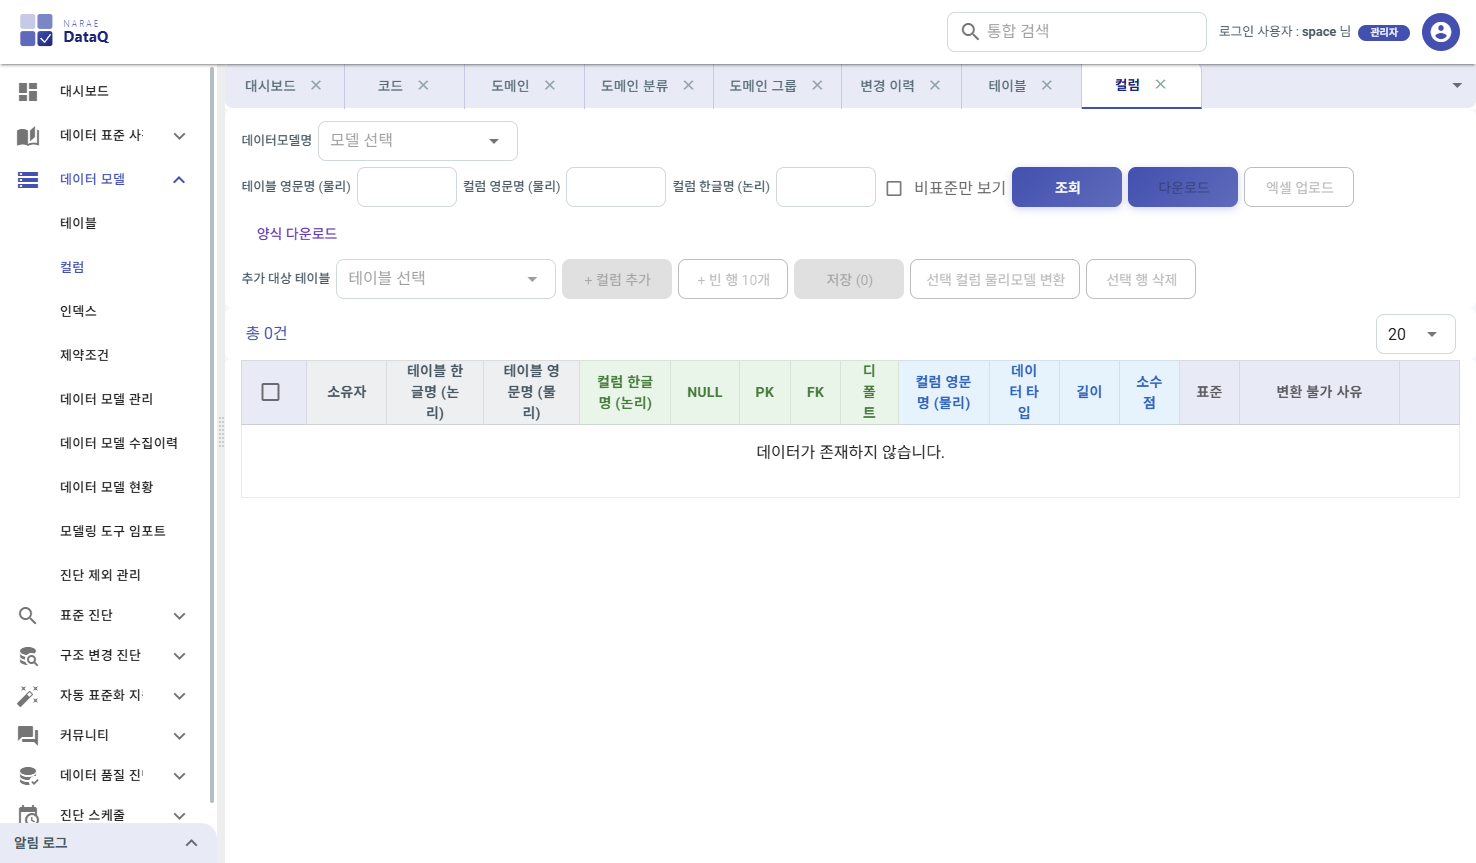
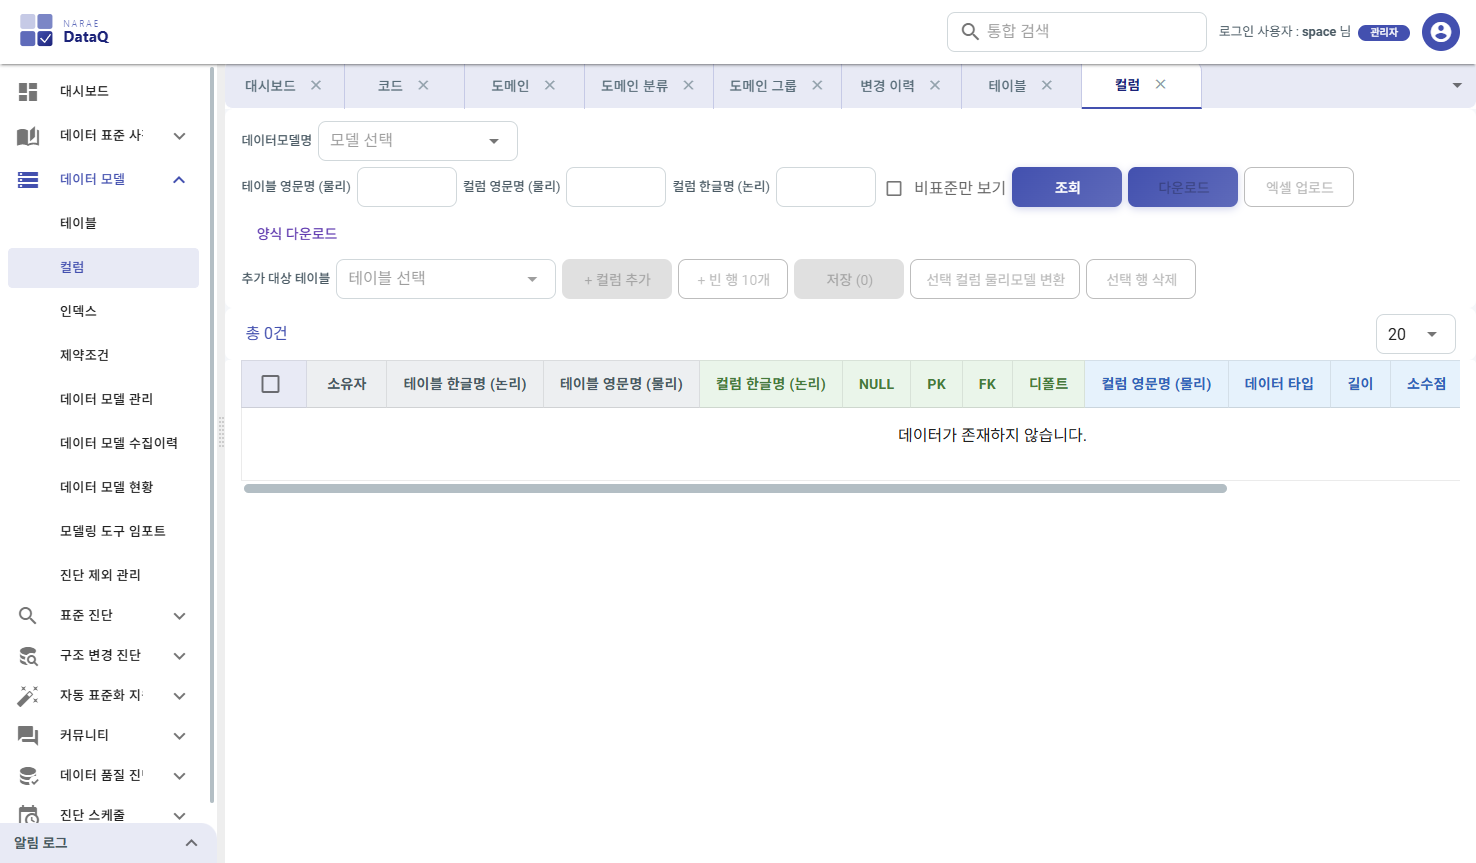
UI 시각 검토 fix — 13 컴포넌트 + Vuetify locale 한국어
공통 (Vuetify locale)
- vuetify.js — 한국어 locale 등록 (noDataText, dataTable, dataFooter)
- "No data available" → "데이터가 존재하지 않습니다." 전 화면 일괄

NdNav
- 사이드바 width 240 — "자동 표준화 지원" 등 메뉴 텍스트 잘림 해소
- "QNA" → "Q&A"

DSDatamodelStatusColumn (가장 심각이었음)
- 헤더 한 글자씩 줄바꿈 ("디 폴 트", "데 이 터 타 입") 해소
- th { white-space: nowrap !important } 추가

DSCode / DSDomain
- 5~6 버튼 한 줄 가로 배치 (flex-nowrap) — "삭제" 만 떨어지던 문제 해소

DSQualValueProfile
- [선택 컬럼 진단] 우측 padding 32px — 잘림 해소
- "전체선택"/"선택해제" → outlined 버튼 (클릭 가능 명확)
- 헤더 "도메인분류" → "도메인 분류"
- 모델 placeholder "모델" → "모델 선택"

DSErwinImport
- [XMI 2.1 추출] 우측 padding 32px

DSDiagTargetMgmt
- OFF/ON 사각 버튼 모호 → outlined red(제외) / green(대상) 명확 구분

DSApproval (MMApproval)
- 행마다 [승인]/[반려] 가로 1줄 배치 + 행 높이 ~50px (이전 60+)
- 일괄 버튼 영역 우측 padding 32px (일괄 반려 잘림 미세 잔존 — 그리드 크기 한계)

DSQualRuleManage
- "비용" → "예상 비용" (cost 의도 명확화)

DSQualStats
- "DONE 진단 최근 30회" → "완료된 진단 최근 30회"
- "DONE 진단 이력 없음" → "완료된 진단 이력 없음"

DSQualColRule
- "effective rule" → "유효 규칙"
- "적합률 ≥/≤" → "적합률 최소/최대"

크롤러 31장 재캡처 → screenshots/ 갱신

Changed region(s): [[0.1558, 0.4218, 0.9973, 0.5724]]

diff --git a/q-center/vue/front/src/components/DSDiagTargetMgmt.vue b/q-center/vue/front/src/components/DSDiagTargetMgmt.vue
@@ -35,16 +35,16 @@
               color="ndColor" prepend-inner-icon="search" :style="{ maxWidth: '240px' }"></v-text-field>
             <v-spacer></v-spacer>
             <span class="text-caption grey--text mr-1">표준</span>
-            <v-btn small class="gradient" @click="bulkObjToggle('STND','N')">OFF</v-btn>
-            <v-btn small outlined @click="bulkObjToggle('STND','Y')">ON</v-btn>
+            <v-btn small outlined color="red" @click="bulkObjToggle('STND','N')" title="선택 행 표준진단 OFF">제외</v-btn>
+            <v-btn small outlined color="green" @click="bulkObjToggle('STND','Y')" title="선택 행 표준진단 ON">대상</v-btn>
             <v-divider vertical class="mx-1" />
             <span class="text-caption grey--text mr-1">구조</span>
-            <v-btn small class="gradient" @click="bulkObjToggle('STRUCT','N')">OFF</v-btn>
-            <v-btn small outlined @click="bulkObjToggle('STRUCT','Y')">ON</v-btn>
+            <v-btn small outlined color="red" @click="bulkObjToggle('STRUCT','N')" title="선택 행 구조진단 OFF">제외</v-btn>
+            <v-btn small outlined color="green" @click="bulkObjToggle('STRUCT','Y')" title="선택 행 구조진단 ON">대상</v-btn>
             <v-divider vertical class="mx-1" />
             <span class="text-caption grey--text mr-1">품질</span>
-            <v-btn small class="gradient" @click="bulkObjToggle('QUAL','N')">OFF</v-btn>
-            <v-btn small outlined @click="bulkObjToggle('QUAL','Y')">ON</v-btn>
+            <v-btn small outlined color="red" @click="bulkObjToggle('QUAL','N')" title="선택 행 품질진단 OFF">제외</v-btn>
+            <v-btn small outlined color="green" @click="bulkObjToggle('QUAL','Y')" title="선택 행 품질진단 ON">대상</v-btn>
           </v-sheet>
           <v-data-table class="px-3 pb-3" :headers="objHeaders" :items="filteredObjs" item-key="objNm"
             v-model="selectedObjs" show-select dense hide-default-footer :items-per-page="-1">
@@ -82,16 +82,16 @@
               color="ndColor" prepend-inner-icon="search" :style="{ maxWidth: '240px' }"></v-text-field>
             <v-spacer></v-spacer>
             <span class="text-caption grey--text mr-1">표준</span>
-            <v-btn small class="gradient" @click="bulkAttrToggle('STND','N')" :disabled="!selObj">OFF</v-btn>
-            <v-btn small outlined @click="bulkAttrToggle('STND','Y')" :disabled="!selObj">ON</v-btn>
+            <v-btn small outlined color="red" @click="bulkAttrToggle('STND','N')" :disabled="!selObj">제외</v-btn>
+            <v-btn small outlined color="green" @click="bulkAttrToggle('STND','Y')" :disabled="!selObj">대상</v-btn>
             <v-divider vertical class="mx-1" />
             <span class="text-caption grey--text mr-1">구조</span>
-            <v-btn small class="gradient" @click="bulkAttrToggle('STRUCT','N')" :disabled="!selObj">OFF</v-btn>
-            <v-btn small outlined @click="bulkAttrToggle('STRUCT','Y')" :disabled="!selObj">ON</v-btn>
+            <v-btn small outlined color="red" @click="bulkAttrToggle('STRUCT','N')" :disabled="!selObj">제외</v-btn>
+            <v-btn small outlined color="green" @click="bulkAttrToggle('STRUCT','Y')" :disabled="!selObj">대상</v-btn>
             <v-divider vertical class="mx-1" />
             <span class="text-caption grey--text mr-1">품질</span>
-            <v-btn small class="gradient" @click="bulkAttrToggle('QUAL','N')" :disabled="!selObj">OFF</v-btn>
-            <v-btn small outlined @click="bulkAttrToggle('QUAL','Y')" :disabled="!selObj">ON</v-btn>
+            <v-btn small outlined color="red" @click="bulkAttrToggle('QUAL','N')" :disabled="!selObj">제외</v-btn>
+            <v-btn small outlined color="green" @click="bulkAttrToggle('QUAL','Y')" :disabled="!selObj">대상</v-btn>
           </v-sheet>
           <v-data-table class="px-3 pb-3" :headers="attrHeaders" :items="filteredAttrs" item-key="attrNm"
             v-model="selectedAttrs" show-select dense hide-default-footer :items-per-page="-1">

diff --git a/q-center/vue/front/src/components/MMApproval.vue b/q-center/vue/front/src/components/MMApproval.vue
@@ -12,8 +12,9 @@
       </v-row>
     </v-sheet>
 
-    <!-- 검색과 버튼 영역 -->
+    <!-- 검색과 버튼 영역 — 우측 padding 확보로 [일괄 반려] 잘림 방지 -->
     <v-sheet class="splitTopWrapper pt-4 pb-4" id="approvalWrap"
+      style="padding-right:24px !important;"
       v-bind:style="[isMobile ? { 'flex-direction': 'column' } : { 'flex-direction': 'row' }]">
       <!-- 검색 -->
       <v-sheet v-bind:style="[isMobile ? { 'padding': '12px 0px' } : { 'padding': '0px 12px' }]" class="searchWrapper">
@@ -23,8 +24,9 @@
         <v-btn class="gradient ml-3" title="검색" v-on:click="getApprovalData"
           :style="{ width: '40px', padding: '0 5px', minWidth: '45px' }"><v-icon>search</v-icon></v-btn>
       </v-sheet>
-      <!-- 일괄 버튼 -->
-      <v-sheet class="pr-4 pl-4" v-if="isAdmin"
+      <!-- 일괄 버튼 (화면 우측 padding 확보) -->
+      <v-sheet class="pl-4" v-if="isAdmin"
+        style="padding-right:32px !important; flex-shrink:0;"
         v-bind:style="[isMobile ? { width: '100%', display: 'flex', justifyContent: 'space-between' } : {}]">
         <v-btn class="gradient mr-2" @click="batchApprove" title="일괄 승인"
           :disabled="selectedItem.length === 0">
@@ -68,14 +70,16 @@
           </div>
         </template>
         <template v-else>
-          <v-btn x-small color="success" class="mr-1" :disabled="item.aprvStatRaw === 2"
-            @click.stop="approveItem(item)" title="승인">
-            <v-icon x-small left>mdi-check</v-icon>승인
-          </v-btn>
-          <v-btn x-small color="red" dark :disabled="item.aprvStatRaw === 3"
-            @click.stop="startRowReject(item)" title="반려">
-            <v-icon x-small left>mdi-close</v-icon>반려
-          </v-btn>
+          <div class="d-flex align-center justify-center" style="gap:4px; white-space:nowrap;">
+            <v-btn x-small color="success" :disabled="item.aprvStatRaw === 2"
+              @click.stop="approveItem(item)" title="승인">
+              <v-icon x-small left>mdi-check</v-icon>승인
+            </v-btn>
+            <v-btn x-small color="red" dark :disabled="item.aprvStatRaw === 3"
+              @click.stop="startRowReject(item)" title="반려">
+              <v-icon x-small left>mdi-close</v-icon>반려
+            </v-btn>
+          </div>
         </template>
       </template>
       <template v-slot:no-data>
@@ -259,7 +263,7 @@ export default {
       { text: '요청일', align: 'center', sortable: false, value: 'reqCretDt' },
       { text: '처리일', align: 'center', sortable: false, value: 'aprvStatUpdtDt' },
       { text: '사유', align: 'center', sortable: false, value: 'aprvStatUpdtRsn' },
-      { text: '처리', align: 'center', sortable: false, value: 'rowActions', width: '170px' },
+      { text: '처리', align: 'center', sortable: false, value: 'rowActions', width: '180px' },
     ],
     rowRejectId: null,        // 인라인 반려 사유 입력 중인 행 key
     rowRejectReason: '',      // 인라인 반려 사유 텍스트

diff --git a/q-center/vue/front/src/components/DSQualValueProfile.vue b/q-center/vue/front/src/components/DSQualValueProfile.vue
@@ -2,16 +2,17 @@
   <v-main>
     <v-sheet class="pa-3" style="display:flex; flex-direction:column; height:100%;">
 
-      <!-- 상단: 모델 + 샘플링 + 시작 -->
-      <v-sheet class="d-flex align-center pa-2" style="border-bottom:1px solid #E8EAF6; gap:8px;">
+      <!-- 상단: 모델 + 샘플링 + 시작 (오른쪽 끝 padding 추가로 버튼 잘림 방지) -->
+      <v-sheet class="d-flex align-center pa-2" style="border-bottom:1px solid #E8EAF6; gap:8px; padding-right:32px !important;">
         <v-autocomplete v-model="dmId" :items="dataModels" item-text="dataModelNm" item-value="dataModelId"
-          label="모델" dense hide-details style="max-width:280px" @change="loadCols" id="cmb-model"></v-autocomplete>
+          label="모델 선택" dense hide-details style="max-width:280px" @change="loadCols" id="cmb-model"></v-autocomplete>
         <v-select v-model="sampleRate" :items="sampleOpts" item-text="text" item-value="value"
           label="샘플링" dense hide-details style="max-width:130px" id="cmb-sample"></v-select>
         <v-spacer></v-spacer>
-        <span style="font-size:.8rem; color:#546E7A;">선택 {{ selected.length }}건 / 표시 {{ filtered.length }}건</span>
+        <span style="font-size:.8rem; color:#546E7A; white-space:nowrap;">선택 {{ selected.length }}건 / 표시 {{ filtered.length }}건</span>
         <v-btn small class="ml-2 gradient" @click="runSelected"
-          :disabled="!dmId || selected.length===0 || running" id="btn-run-selected">
+          :disabled="!dmId || selected.length===0 || running" id="btn-run-selected"
+          style="flex-shrink:0; min-width:140px;">
           <v-icon small left>mdi-play</v-icon>선택 컬럼 진단
         </v-btn>
       </v-sheet>
@@ -24,8 +25,8 @@
           dense hide-details multiple chips small-chips clearable
           style="min-width:280px; max-width:480px;" id="cmb-clsf"></v-autocomplete>
         <v-spacer></v-spacer>
-        <v-btn x-small text @click="selectAll" id="btn-select-all">전체선택</v-btn>
-        <v-btn x-small text @click="selectNone" id="btn-select-none">선택해제</v-btn>
+        <v-btn small outlined color="indigo" @click="selectAll" id="btn-select-all">전체 선택</v-btn>
+        <v-btn small outlined color="grey darken-1" @click="selectNone" id="btn-select-none">선택 해제</v-btn>
       </v-sheet>
 
       <!-- 진행률 표시 -->
@@ -171,7 +172,7 @@ export default {
         { text: '테이블',     value: 'objNm', width: 140 },
         { text: '컬럼',       value: 'attrNm', width: 140 },
         { text: '한글명',     value: 'attrNmKr', width: 140 },
-        { text: '도메인분류', value: 'domainClsfNm', width: 120 },
+        { text: '도메인 분류', value: 'domainClsfNm', width: 120 },
         { text: '적용 규칙',  value: 'effectiveRuleNm' },
         { text: '소스',       value: 'effectiveSource', width: 90 },
         { text: 'NULL%',      value: 'profNullPct', width: 80 },

diff --git a/q-center/vue/front/src/components/DSQualColRule.vue b/q-center/vue/front/src/components/DSQualColRule.vue
@@ -4,7 +4,7 @@
       <!-- 헤더 -->
       <v-sheet class="d-flex align-center pa-2" style="border-bottom:1px solid #E8EAF6; gap:8px;">
         <span style="font-size:1.05rem; font-weight:600; color:#1A237E;">검증 대상</span>
-        <span style="font-size:.8rem; color:#9E9E9E;">— 컬럼 ↔ 룰 매핑 + effective rule + 직전 진단 적합률</span>
+        <span style="font-size:.8rem; color:#9E9E9E;">— 컬럼 ↔ 규칙 매핑 + 유효 규칙 + 직전 진단 적합률</span>
       </v-sheet>
 
       <!-- 검색 필터 -->
@@ -17,10 +17,10 @@
           @change="loadCols"></v-text-field>
         <v-text-field v-model="filterAttr" label="컬럼 검색" dense hide-details clearable style="max-width:160px"
           @change="loadCols"></v-text-field>
-        <v-text-field v-model.number="rateMin" label="적합률 ≥" type="number" dense hide-details clearable
-          style="max-width:110px" @change="loadCols"></v-text-field>
-        <v-text-field v-model.number="rateMax" label="적합률 ≤" type="number" dense hide-details clearable
-          style="max-width:110px" @change="loadCols"></v-text-field>
+        <v-text-field v-model.number="rateMin" label="적합률 최소" type="number" dense hide-details clearable
+          style="max-width:120px" @change="loadCols"></v-text-field>
+        <v-text-field v-model.number="rateMax" label="적합률 최대" type="number" dense hide-details clearable
+          style="max-width:120px" @change="loadCols"></v-text-field>
         <v-btn small @click="loadCols" :disabled="!dmId" id="btn-colrule-reload">
           <v-icon small left>mdi-refresh</v-icon>새로고침
         </v-btn>

diff --git a/q-center/vue/front/src/plugins/vuetify.js b/q-center/vue/front/src/plugins/vuetify.js
@@ -4,7 +4,43 @@ import "vuetify/dist/vuetify.min.css";
 
 Vue.use(Vuetify);
 
+// 한국어 locale — v-data-table 등 default 텍스트
+const koLocale = {
+  badge: "배지",
+  close: "닫기",
+  dataIterator: {
+    noResultsText: "검색 결과가 없습니다.",
+    loadingText: "로딩 중..."
+  },
+  dataTable: {
+    itemsPerPageText: "페이지 당 행 수:",
+    ariaLabel: {
+      sortDescending: "내림차순 정렬.",
+      sortAscending: "오름차순 정렬.",
+      sortNone: "정렬 안 함.",
+      activateNone: "정렬 제거",
+      activateDescending: "내림차순 정렬",
+      activateAscending: "오름차순 정렬"
+    },
+    sortBy: "정렬 기준"
+  },
+  dataFooter: {
+    itemsPerPageText: "페이지 당 행 수:",
+    itemsPerPageAll: "전체",
+    nextPage: "다음",
+    prevPage: "이전",
+    firstPage: "처음",
+    lastPage: "마지막",
+    pageText: "{0}-{1} / {2}"
+  },
+  noDataText: "데이터가 존재하지 않습니다."
+};
+
 const opts = {
+  lang: {
+    locales: { ko: koLocale },
+    current: "ko"
+  },
   breakpoint: {
     mobileBreakpoint: "xs"
   },

diff --git a/q-center/vue/front/src/views/nav/NdNav.vue b/q-center/vue/front/src/views/nav/NdNav.vue
@@ -1,6 +1,6 @@
 <template>
     <v-navigation-drawer app left clipped :permanent="!isMobile" :mini-variant.sync=this.navSize v-bind="$attrs"
-        :class="isMobile ? 'mobileNav' : ''">
+        :class="isMobile ? 'mobileNav' : ''" :width="240">
         <v-list-item-group v-model="selectedList" active-class="ndColor--text" focusable :mandatory="selectedList !== null">
             <v-list nav dense>
                 <!-- 대시보드 -->
@@ -382,10 +382,10 @@
                     </v-list-item>
 
                     <v-list-item link id="nav_boardQna" href="#tab_boardQna" active-class="ndColor--text"
-                        title="QNA"
-                        v-on:click.stop="addTabItem('QNA', 'boardQna');">
+                        title="Q&amp;A"
+                        v-on:click.stop="addTabItem('Q&amp;A', 'boardQna');">
                         <v-list-item-icon><v-icon></v-icon></v-list-item-icon>
-                        <v-list-item-title>QNA</v-list-item-title>
+                        <v-list-item-title>Q&amp;A</v-list-item-title>
                     </v-list-item>
                 </v-list-group>
 

diff --git a/q-center/vue/front/src/components/DSDomain.vue b/q-center/vue/front/src/components/DSDomain.vue
@@ -38,8 +38,9 @@
                 :style="{ width: '40px', padding: '0 5px', minWidth: '45px', marginRight: '16px' }"><v-icon>restart_alt</v-icon></v-btn>
             </v-row>
           </v-sheet>
-          <!-- 등록 / 일괄 등록 / 삭제 버튼 -->
-          <v-sheet v-bind:style="[isMobile ? { 'padding': '12px 0px' } : { 'padding': '0px 12px' }]">
+          <!-- 등록 / 일괄 등록 / 삭제 버튼 — 한 줄 가로 배치 -->
+          <v-sheet v-bind:style="[isMobile ? { 'padding': '12px 0px' } : { 'padding': '0px 12px' }]"
+            class="d-flex flex-nowrap" style="gap: 6px;">
             <v-btn class="gradient" v-on:click="showModal('add')" title="등록">{{ isAdmin ? '등록' : '등록 신청' }}</v-btn>
             <v-btn v-if="isAdmin" class="gradient" v-on:click="domainExcelFileUpload()" title="일괄 등록">일괄 등록</v-btn>
             <v-btn class="gradient" v-on:click="domainListDownload()" title="다운로드">다운로드</v-btn>

diff --git a/q-center/vue/front/src/components/DSCode.vue b/q-center/vue/front/src/components/DSCode.vue
@@ -33,8 +33,9 @@
                 :style="{ width: '40px', padding: '0 5px', minWidth: '45px', marginRight: '16px' }"><v-icon>restart_alt</v-icon></v-btn>
             </v-row>
           </v-sheet>
-          <!-- 등록 / 일괄 등록 / 삭제 버튼 -->
-          <v-sheet v-bind:style="[isMobile ? { 'padding': '12px 0px' } : { 'padding': '0px 12px' }]">
+          <!-- 등록 / 일괄 등록 / 삭제 버튼 — 한 줄 가로 배치 (flex nowrap) -->
+          <v-sheet v-bind:style="[isMobile ? { 'padding': '12px 0px' } : { 'padding': '0px 12px' }]"
+            class="d-flex flex-nowrap" style="gap: 6px;">
             <v-btn :style="{ width: '150px' }" class="gradient" v-on:click="showModal('managingCodeval')"
               title="코드 항목 관리">코드 항목 관리</v-btn>
             <v-btn class="gradient" v-on:click="showModal('codeAdd')" title="등록">{{ isAdmin ? '등록' : '등록 신청' }}</v-btn>

diff --git a/q-center/vue/front/src/components/DSQualStats.vue b/q-center/vue/front/src/components/DSQualStats.vue
@@ -15,7 +15,7 @@
           <v-icon small left>mdi-chart-line</v-icon>조회
         </v-btn>
         <v-spacer></v-spacer>
-        <span style="font-size:.75rem; color:#90A4AE;">DONE 진단 최근 30회 기준</span>
+        <span style="font-size:.75rem; color:#90A4AE;">완료된 진단 최근 30회 기준</span>
       </v-sheet>
 
       <!-- 모델 단위 적합률 추이 -->
@@ -29,7 +29,7 @@
         </div>
         <div v-else-if="modelSeries[0] && modelSeries[0].data.length === 0"
           style="padding:24px; text-align:center; color:#9E9E9E;" id="empty-model-trend">
-          DONE 진단 이력 없음
+          완료된 진단 이력 없음
         </div>
         <apexchart v-else type="line" height="220" :options="modelChartOpts"
           :series="modelSeries" :key="modelChartKey"></apexchart>

diff --git a/q-center/vue/front/src/components/DSErwinImport.vue b/q-center/vue/front/src/components/DSErwinImport.vue
@@ -14,8 +14,9 @@
       </span>
     </v-sheet>
 
-    <!-- 필터 바 -->
-    <v-sheet class="d-flex align-center flex-wrap pa-2 mb-2" style="gap:8px; border:1px solid #E8EAF6; border-radius:4px;">
+    <!-- 필터 바 — 우측 padding 추가로 [XMI 추출] 버튼 잘림 방지 -->
+    <v-sheet class="d-flex align-center flex-wrap pa-2 mb-2"
+      style="gap:8px; border:1px solid #E8EAF6; border-radius:4px; padding-right:32px !important;">
       <span class="filterLabel">{{ formatLabel }} 파일</span>
       <v-file-input
         v-model="selectedFile"

diff --git a/q-center/vue/front/src/components/DSDatamodelStatusColumn.vue b/q-center/vue/front/src/components/DSDatamodelStatusColumn.vue
@@ -1001,4 +1001,6 @@ pre { font-family: 'Roboto'; }
 #clTable_table >>> th.hdr-table    { background-color: #ECEFF1 !important; color: #455A64 !important; }
 #clTable_table >>> th.hdr-logical  { background-color: #E8F5E9 !important; color: #2E7D32 !important; font-weight: 600 !important; }
 #clTable_table >>> th.hdr-physical { background-color: #E3F2FD !important; color: #1565C0 !important; }
+/* 헤더 한 글자씩 줄바꿈 방지 (디 폴 트, 데 이 터 타 입 등) */
+#clTable_table >>> th { white-space: nowrap !important; }
 </style>

diff --git a/q-center/vue/front/src/components/DSQualRuleManage.vue b/q-center/vue/front/src/components/DSQualRuleManage.vue
@@ -106,7 +106,7 @@ export default {
         { text: '대상', value: 'objNm' },
         { text: '컬럼', value: 'attrNm' },
         { text: '유형', value: 'ruleType' },
-        { text: '비용', value: 'estCost' },
+        { text: '예상 비용', value: 'estCost' },
         { text: '심각도', value: 'severity' },
         { text: '사용', value: 'useYn' },
         { text: '', value: 'actions', sortable: false }
